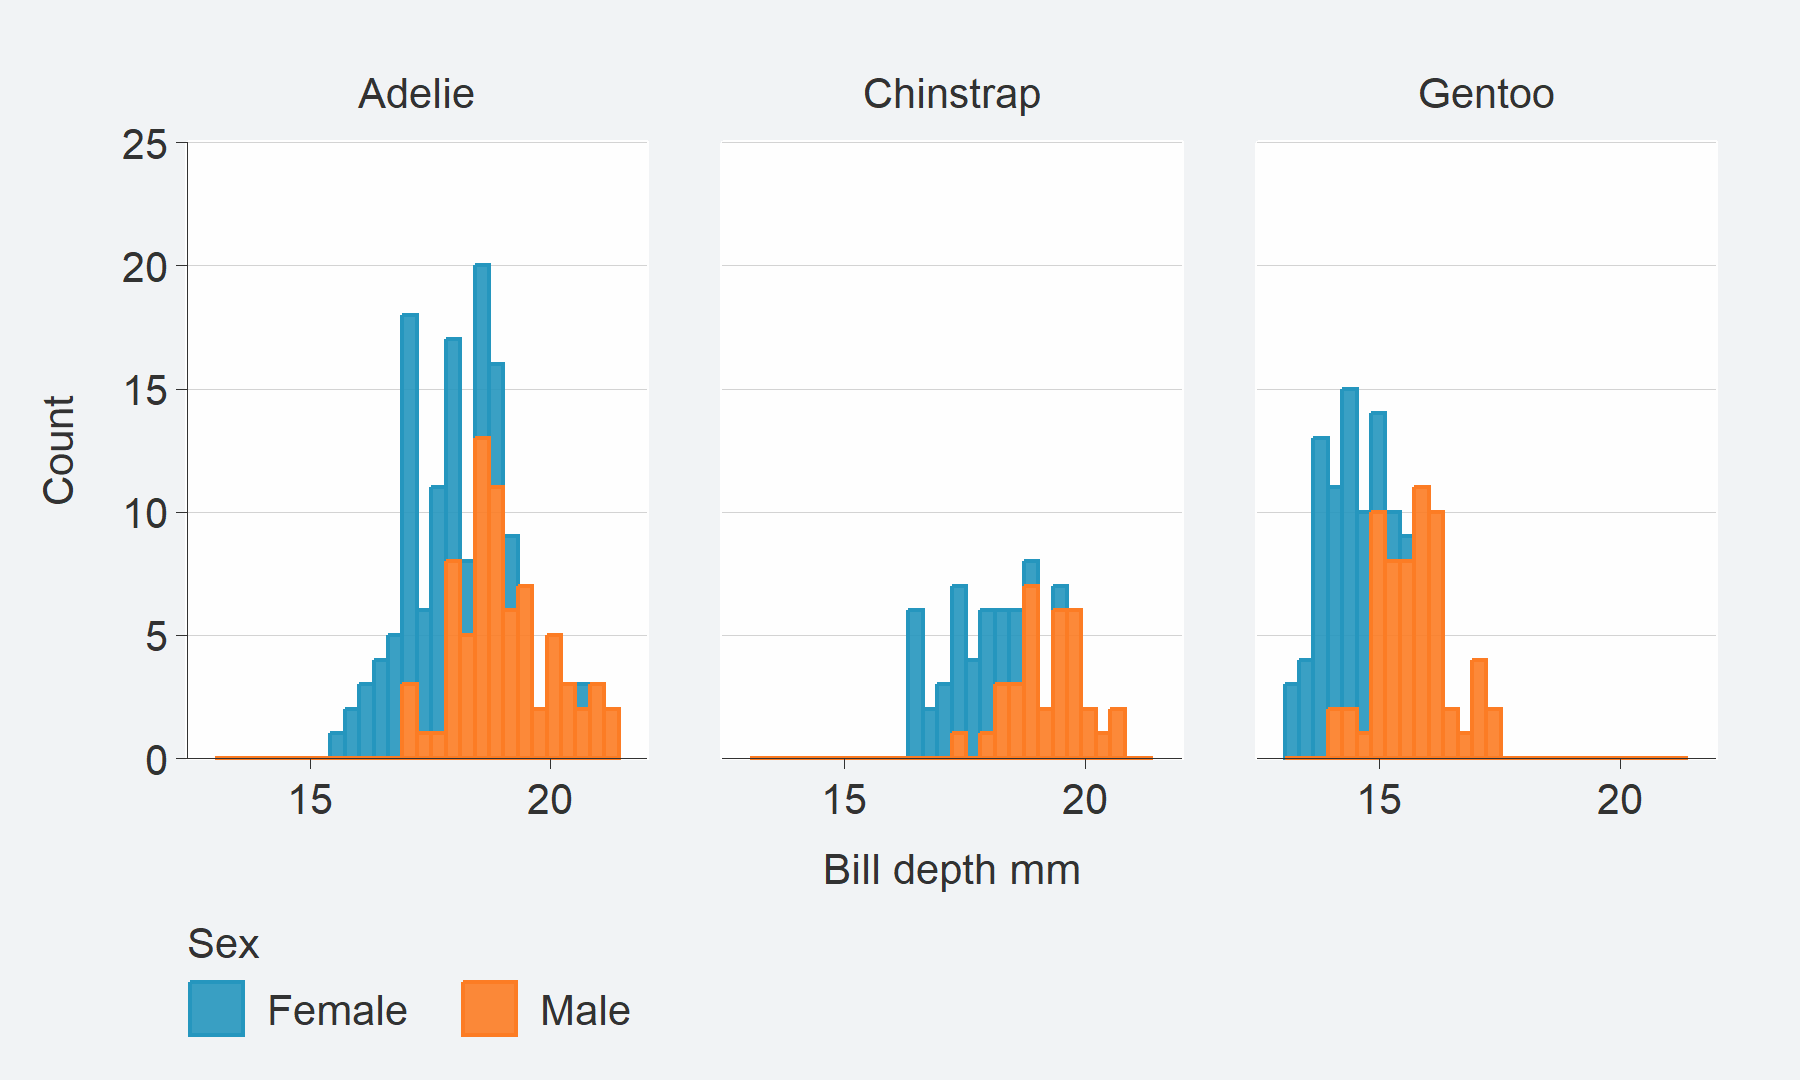
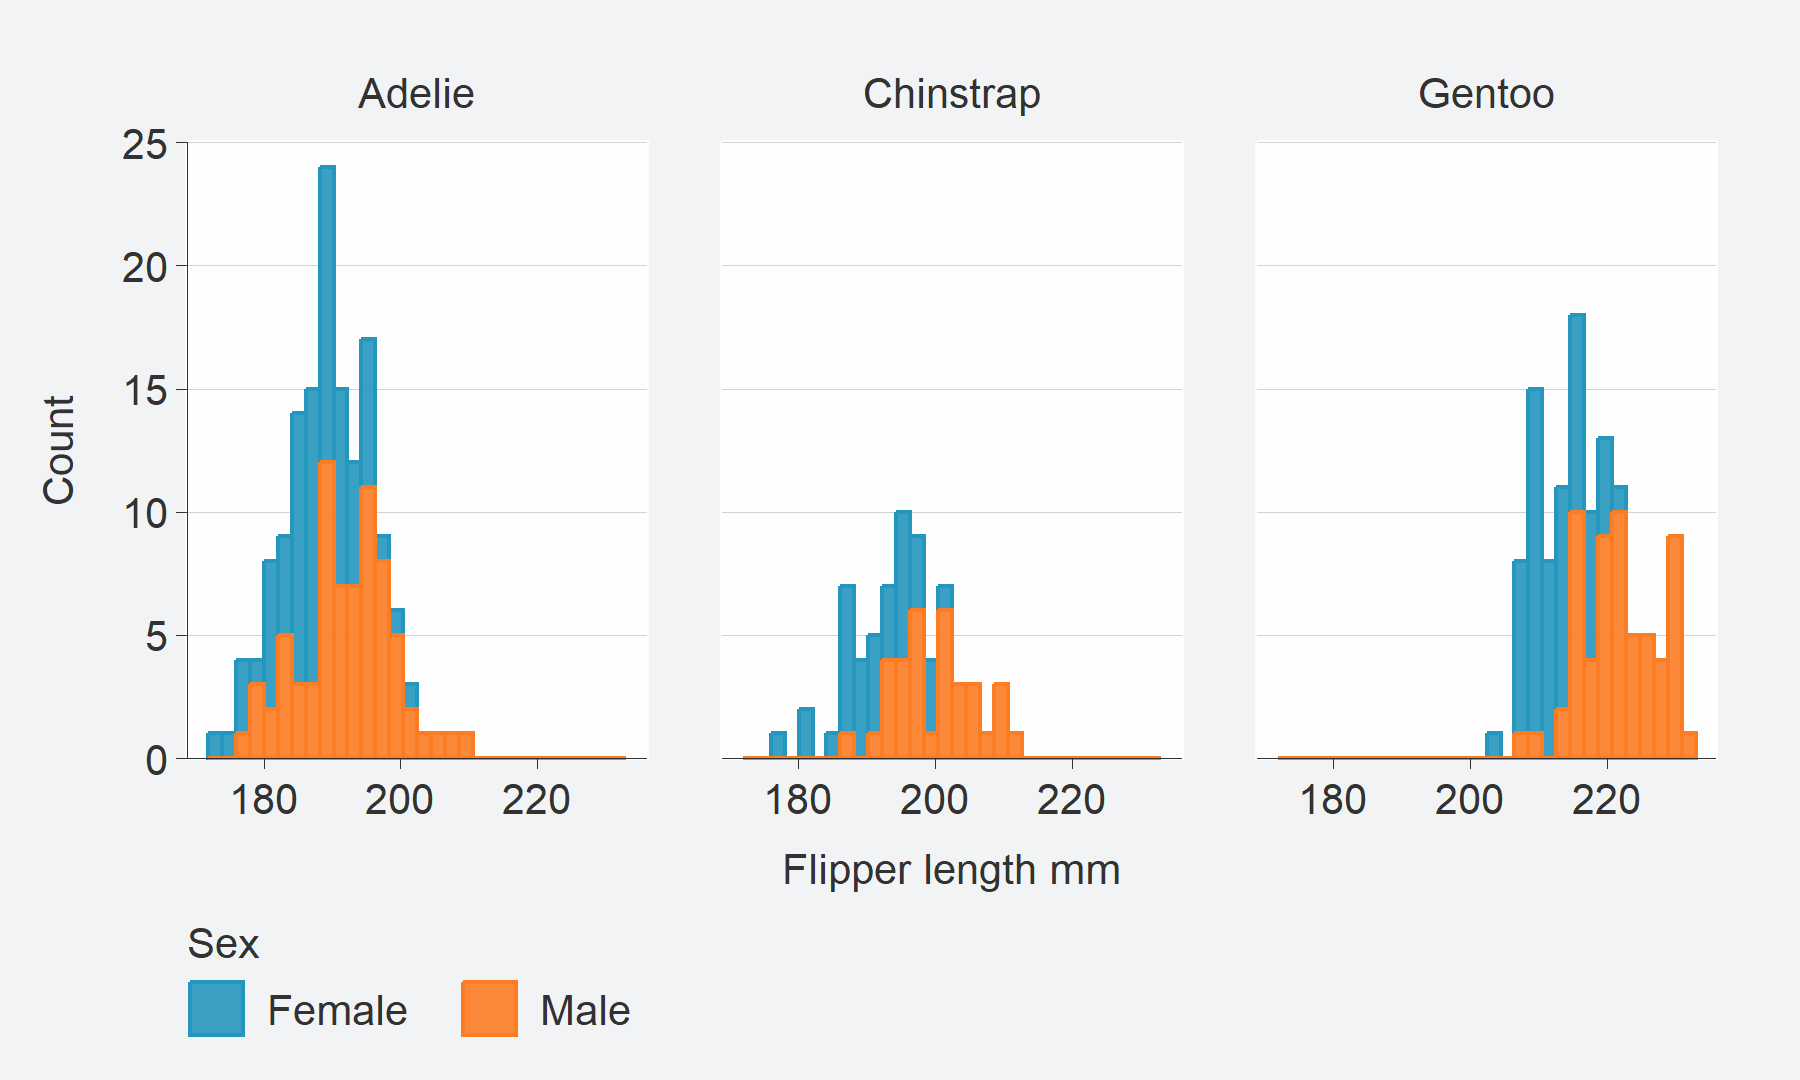
Update readme plot

Changed region(s): [[0.0933, 0.1528, 0.3422, 0.7639], [0.7156, 0.275, 0.9644, 0.7639], [0.4044, 0.4583, 0.6533, 0.825]]

diff --git a/README.md b/README.md
@@ -59,7 +59,7 @@ penguins |>
 penguins |>
   tidyr::drop_na(sex) |> 
   gg_histogram(
-    x = bill_depth_mm,
+    x = flipper_length_mm,
     col = sex,
     facet = species,
     pal = c("#2596be", "#fc7c24"),
